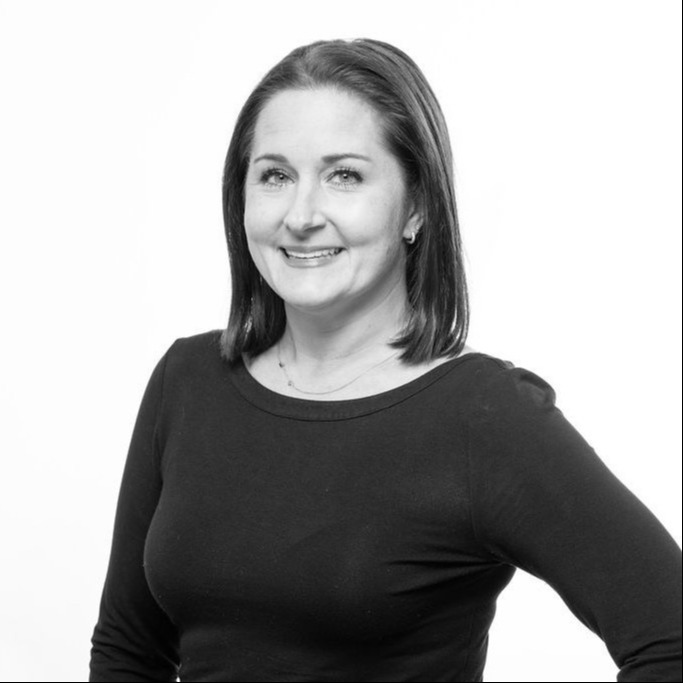
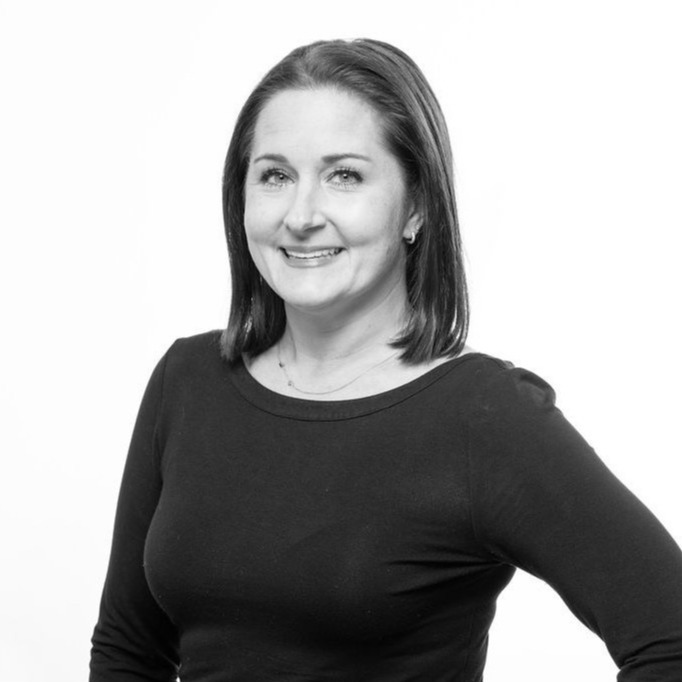
Trim the dark hairline off Katie Messner's headshot
The stray line down the right of her portrait was not a scaling
artefact: the source file carried a single black pixel column on its
right edge and another along the bottom, left over from however it was
exported. Cropping those two lines removes it at source, so no other
portrait's framing has to change to hide it. The photo goes from
683x683 to 682x682.

normalize-headshots.py now detects and trims these edges as well as
compositing transparent cut-outs, so the next export with the same
fault is caught rather than reaching the page. It removes at most four
lines per edge and only where an edge is markedly darker than what sits
just inside it, so it cannot eat into the picture. A JPEG now stays a
JPEG rather than being rewritten as PNG.

Checked across the other nine headshots: none has the same fault.

diff --git a/scripts/normalize-headshots.py b/scripts/normalize-headshots.py
@@ -4,11 +4,19 @@
     python3 scripts/normalize-headshots.py          # report only
     python3 scripts/normalize-headshots.py --write  # apply
 
-Some of the headshots are cut-outs saved with a transparent background. On the
-page that transparency let the section colour show through, so those portraits
-sat on ivory while the studio shots sat on white. Compositing them onto white
-settles the difference. Photographs taken against a real background cannot be
-fixed here and are reported instead.
+Two things are normalised.
+
+Some headshots are cut-outs saved with a transparent background. On the page
+that transparency let the section colour show through, so those portraits sat
+on ivory while the studio shots sat on white. Compositing them onto white
+settles the difference.
+
+Some carry a dark hairline along one or more edges, left over from however
+they were exported. Scaled into a square frame that reads as a stray line down
+the side of the portrait, so those rows and columns are trimmed off.
+
+Photographs taken against a real background cannot be fixed here and are
+reported instead.
 
 Requires Pillow:  python3 -m pip install Pillow
 """
@@ -24,7 +32,37 @@ except ImportError:
 ROOT = Path(__file__).resolve().parent.parent
 TEAM = ROOT / "assets" / "img" / "team"
 WHITE = (255, 255, 255)
-MIN_EDGE = 400  # below this a portrait looks soft in the grid
+MIN_EDGE = 400   # below this a portrait looks soft in the grid
+EDGE_DROP = 40   # an edge this much darker than just inside it is an artefact
+MAX_TRIM = 4     # only ever a hairline; more than this is real picture
+
+
+def edge_trim(img):
+    """Count dark artefact lines on each side: (left, top, right, bottom)."""
+    px = img.convert("RGB").load()
+    w, h = img.size
+
+    def row(y):
+        return sum(sum(px[x, y]) / 3 for x in range(0, w, max(1, w // 200))) / len(
+            range(0, w, max(1, w // 200)))
+
+    def col(x):
+        return sum(sum(px[x, y]) / 3 for y in range(0, h, max(1, h // 200))) / len(
+            range(0, h, max(1, h // 200)))
+
+    def count(read, start, step, limit):
+        n = 0
+        while n < MAX_TRIM:
+            here = read(start + n * step)
+            inside = read(start + (n + limit) * step)
+            if here < inside - EDGE_DROP:
+                n += 1
+            else:
+                break
+        return n
+
+    return (count(col, 0, 1, 3), count(row, 0, 1, 3),
+            count(col, w - 1, -1, 3), count(row, h - 1, -1, 3))
 
 
 def main() -> int:
@@ -39,29 +77,41 @@ def main() -> int:
         alpha = rgba.getchannel("A")
         clear = sum(1 for v in alpha.get_flattened_data() if v < 16) / (img.width * img.height)
 
+        left, top, right, bottom = edge_trim(img)
+        trimming = any((left, top, right, bottom))
+
         notes = []
         if clear > 0.01:
             notes.append(f"{clear:.0%} transparent")
+        if trimming:
+            sides = [n for n, v in
+                     (("left", left), ("top", top), ("right", right), ("bottom", bottom)) if v]
+            notes.append("dark edge on " + "/".join(sides))
         if min(img.size) < MIN_EDGE:
             notes.append(f"only {img.width}x{img.height}")
 
-        if clear > 0.01:
+        if clear > 0.01 or trimming:
             flat = Image.new("RGB", img.size, WHITE)
             flat.paste(rgba, mask=alpha)
+            if trimming:
+                flat = flat.crop((left, top, img.width - right, img.height - bottom))
             if write:
-                flat.save(path.with_suffix(".png"), "PNG", optimize=True)
-                if path.suffix.lower() != ".png":
-                    path.unlink()
+                if path.suffix.lower() in (".jpg", ".jpeg"):
+                    flat.save(path, "JPEG", quality=92, optimize=True, progressive=True)
+                else:
+                    flat.save(path.with_suffix(".png"), "PNG", optimize=True)
+                    if path.suffix.lower() != ".png":
+                        path.unlink()
             changed.append((path.name, ", ".join(notes)))
         elif min(img.size) < MIN_EDGE:
             flagged.append((path.name, ", ".join(notes)))
 
     if changed:
-        print(("Composited onto white:" if write else "Would composite onto white:"))
+        print("Fixed:" if write else "Would fix:")
         for name, note in changed:
             print(f"  {name}  ({note})")
     else:
-        print("No transparent headshots — all backgrounds already match.")
+        print("Nothing to fix — all backgrounds already match.")
 
     if flagged:
         print("\nNeeds a replacement photograph (cannot be fixed here):")

diff --git a/README.md b/README.md
@@ -238,6 +238,12 @@ each page — which is plain HTML — is unaffected.
   onto white (run it with no arguments for a report, `--write` to apply), and
   `.person__frame` is white so the same mismatch cannot reappear.
 
+  The same script also trims dark hairlines off a portrait's edges. One photo
+  carried a single black pixel column down its right side and another along
+  the bottom, left over from however it was exported; scaled into the square
+  frame that read as a stray line beside the portrait. It only ever removes up
+  to four lines per edge, so it cannot eat into the picture itself.
+
   A portrait photographed against a real background cannot be fixed this way
   and needs re-shooting or cutting out; the script reports those rather than
   mangling them.
